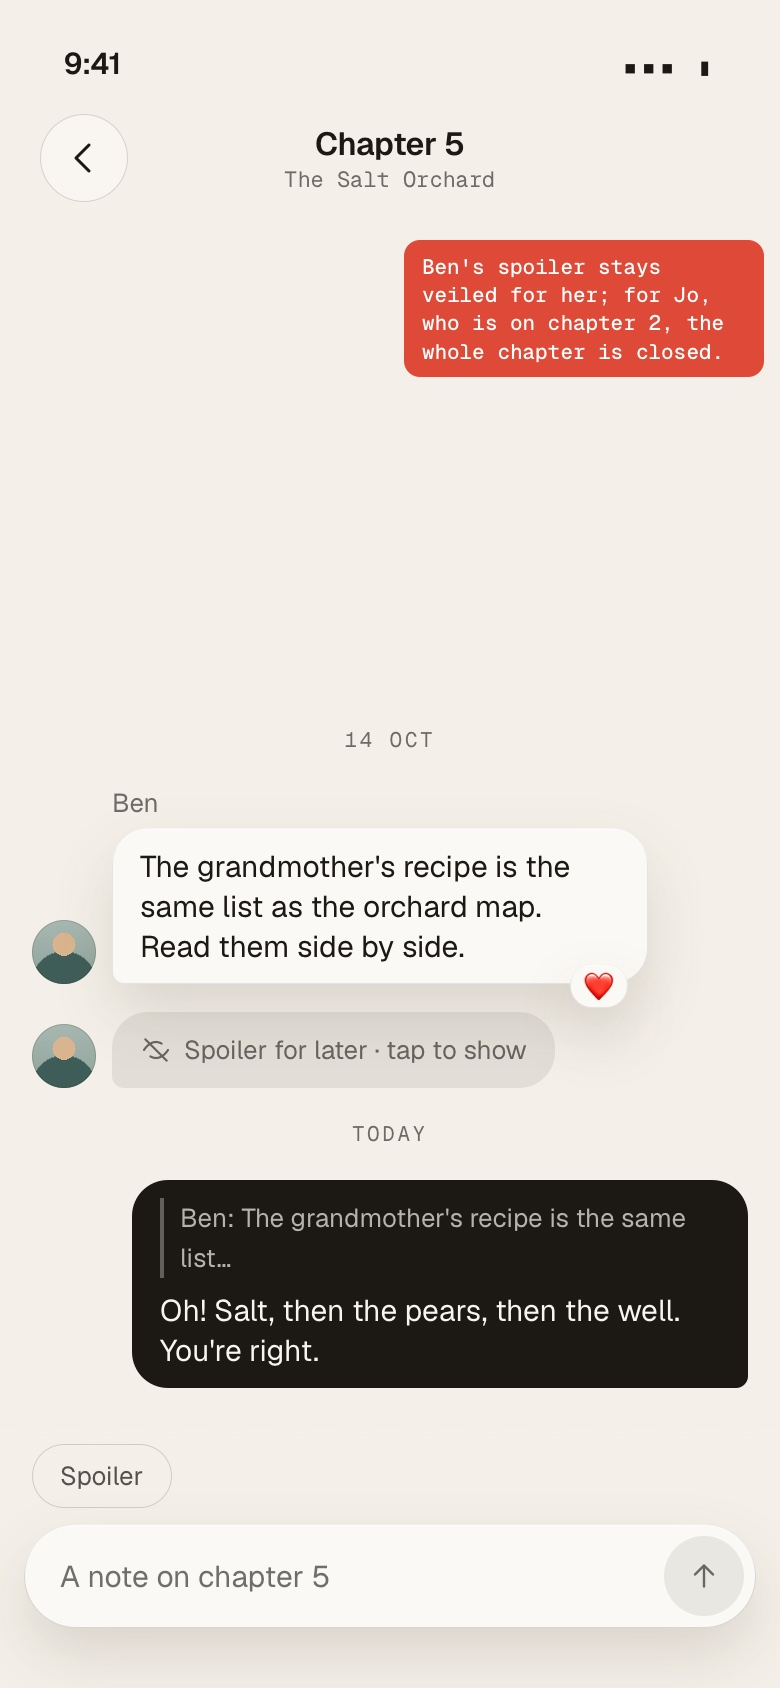
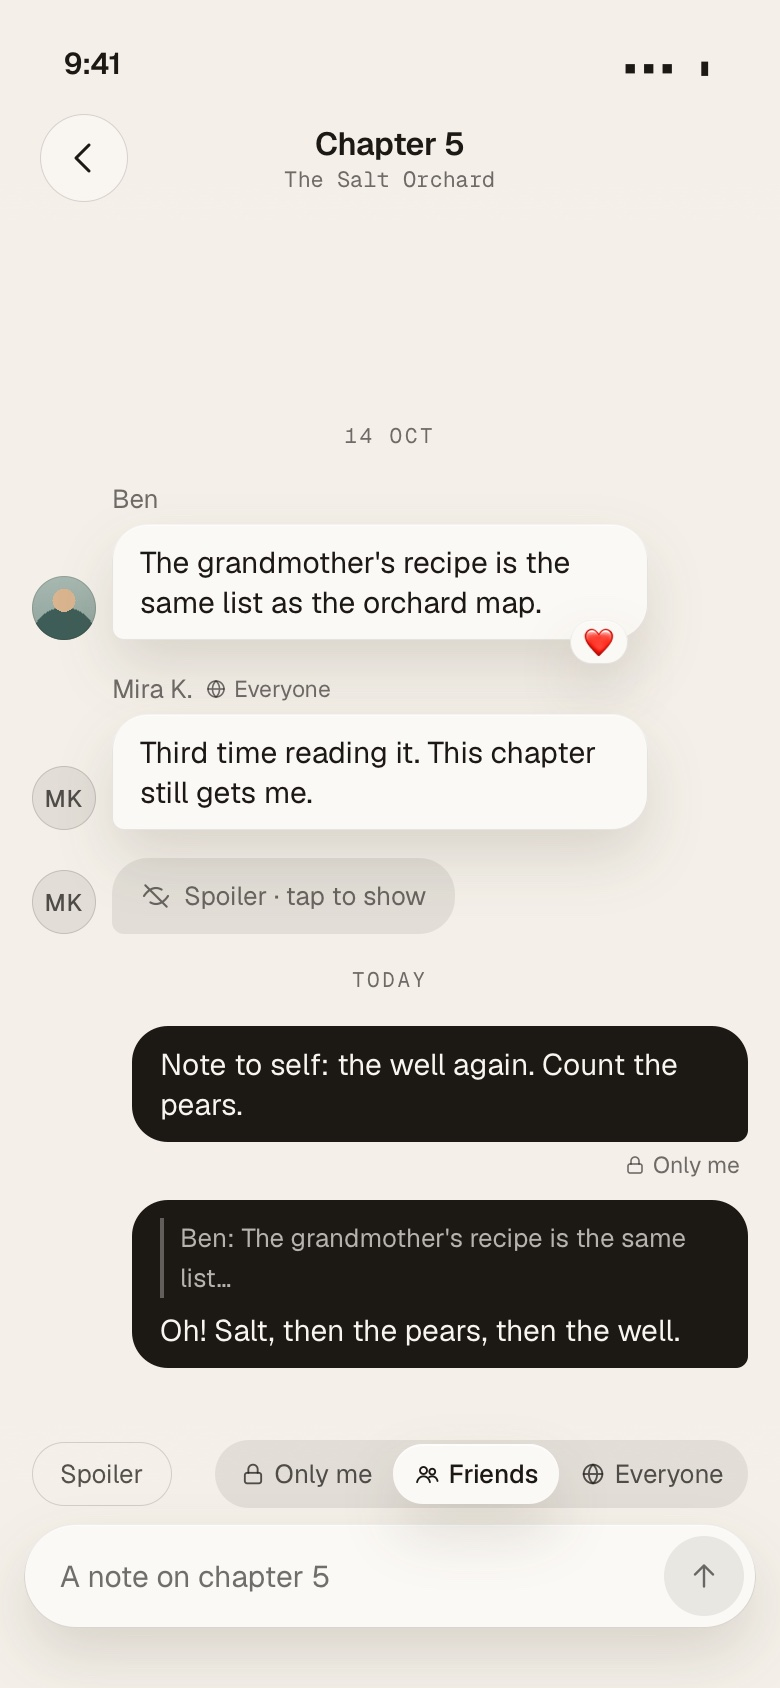
docs(plans): book-notes mock-ups for per-note visibility (only me, friends, everyone)

diff --git a/docs/prototypes/book-notes/chapter.html b/docs/prototypes/book-notes/chapter.html
@@ -2,7 +2,7 @@
 <html>
 <head>
 <meta charset="utf-8" />
-<title>Book notes 4: chapter 5's notes</title>
+<title>Book notes 4: chapter 5, notes at three visibilities</title>
 <link rel="stylesheet" href="base.css" />
 <link rel="stylesheet" href="room.css" />
 </head>
@@ -15,32 +15,41 @@
     <div></div>
   </div>
 
-  <div class="msgs">
+  <div class="msgs" style="bottom:160px">
     <p class="day">14 Oct</p>
     <div class="msg">
       <p class="who">Ben</p>
       <div class="line"><span class="av photo2">B</span>
-        <div class="bub"><span data-en="The grandmother's recipe is the same list as the orchard map. Read them side by side." data-de="Das Rezept der Großmutter ist dieselbe Liste wie die Karte des Obstgartens. Lies beides nebeneinander."></span><span class="react">❤</span></div>
+        <div class="bub"><span data-en="The grandmother's recipe is the same list as the orchard map." data-de="Das Rezept der Großmutter ist dieselbe Liste wie die Karte des Obstgartens."></span><span class="react">❤</span></div>
+      </div>
+    </div>
+    <div class="msg" style="margin-top:6px">
+      <p class="who">Mira K. <span class="mark"><svg class="ico" viewBox="0 0 24 24"><circle cx="12" cy="12" r="8"/><path d="M4 12h16M12 4c2.5 2.2 3.5 5 3.5 8s-1 5.8-3.5 8c-2.5-2.2-3.5-5-3.5-8s1-5.8 3.5-8z"/></svg><span data-en="Everyone" data-de="Alle"></span></span></p>
+      <div class="line"><span class="av">MK</span>
+        <div class="bub"><span data-en="Third time reading it. This chapter still gets me." data-de="Ich lese es zum dritten Mal. Dieses Kapitel trifft mich immer noch."></span></div>
       </div>
     </div>
     <div class="msg" style="margin-top:4px">
-      <div class="line"><span class="av photo2">B</span>
-        <div class="bub veil"><svg class="ico" viewBox="0 0 24 24" style="width:16px;height:16px"><path d="M3 12s3.5-6 9-6c1.6 0 3 .5 4.2 1.2M21 12s-3.5 6-9 6c-1.6 0-3-.5-4.2-1.2M4 4l16 16"/></svg><span data-en="Spoiler for later · tap to show" data-de="Spoiler für später · zum Anzeigen tippen"></span></div>
+      <div class="line"><span class="av">MK</span>
+        <div class="bub veil"><svg class="ico" viewBox="0 0 24 24" style="width:16px;height:16px"><path d="M3 12s3.5-6 9-6c1.6 0 3 .5 4.2 1.2M21 12s-3.5 6-9 6c-1.6 0-3-.5-4.2-1.2M4 4l16 16"/></svg><span data-en="Spoiler · tap to show" data-de="Spoiler · zum Anzeigen tippen"></span></div>
       </div>
     </div>
 
     <p class="day" data-en="Today" data-de="Heute"></p>
     <div class="msg mine">
-      <div class="line"><div class="bub"><div class="quote">Ben: <span data-en="The grandmother's recipe is the same list…" data-de="Das Rezept der Großmutter ist dieselbe Liste…"></span></div><span data-en="Oh! Salt, then the pears, then the well. You're right." data-de="Oh! Salz, dann die Birnen, dann der Brunnen. Du hast recht."></span></div></div>
+      <div class="line"><div class="bub"><span data-en="Note to self: the well again. Count the pears." data-de="Notiz an mich: wieder der Brunnen. Birnen zählen."></span></div></div>
+      <div class="meta-mine"><span class="mark"><svg class="ico" viewBox="0 0 24 24"><rect x="5" y="11" width="14" height="9" rx="2"/><path d="M8 11V8a4 4 0 0 1 8 0v3"/></svg><span data-en="Only me" data-de="Nur ich"></span></span></div>
+    </div>
+    <div class="msg mine">
+      <div class="line"><div class="bub"><div class="quote">Ben: <span data-en="The grandmother's recipe is the same list…" data-de="Das Rezept der Großmutter ist dieselbe Liste…"></span></div><span data-en="Oh! Salt, then the pears, then the well." data-de="Oh! Salz, dann die Birnen, dann der Brunnen."></span></div></div>
     </div>
   </div>
 
   <div class="composer">
-    <div class="chips"><span class="chip" data-en="Spoiler" data-de="Spoiler"></span></div>
+    <div class="chips"><span class="chip" data-en="Spoiler" data-de="Spoiler"></span><span class="vis" role="radiogroup"><span class="" role="radio"><svg class="ico" viewBox="0 0 24 24"><rect x="5" y="11" width="14" height="9" rx="2"/><path d="M8 11V8a4 4 0 0 1 8 0v3"/></svg><b style="font-weight:inherit" data-en="Only me" data-de="Nur ich"></b></span><span class="on" role="radio"><svg class="ico" viewBox="0 0 24 24"><circle cx="9" cy="9" r="3"/><circle cx="16.5" cy="10" r="2.5"/><path d="M3.5 19c.6-3 2.8-5 5.5-5s4.9 2 5.5 5M14 14.6c.8-.4 1.6-.6 2.5-.6 2.2 0 4 1.6 4.5 4"/></svg><b style="font-weight:inherit" data-en="Friends" data-de="Freunde"></b></span><span class="" role="radio"><svg class="ico" viewBox="0 0 24 24"><circle cx="12" cy="12" r="8"/><path d="M4 12h16M12 4c2.5 2.2 3.5 5 3.5 8s-1 5.8-3.5 8c-2.5-2.2-3.5-5-3.5-8s1-5.8 3.5-8z"/></svg><b style="font-weight:inherit" data-en="Everyone" data-de="Alle"></b></span></span></div>
     <div class="box"><span class="ph" data-en="A note on chapter 5" data-de="Eine Notiz zu Kapitel 5"></span>
       <span class="send"><svg class="ico" viewBox="0 0 24 24"><path d="M12 19V5M6 11l6-6 6 6"/></svg></span></div>
   </div>
-  <div class="note" style="bottom:auto;top:120px;right:8px;max-width:180px" data-en="Ben's spoiler stays veiled for her; for Jo, who is on chapter 2, the whole chapter is closed." data-de="Bens Spoiler bleibt für sie verdeckt; für Jo, bei Kapitel 2, ist das ganze Kapitel zu."></div>
 </div>
 <script src="mock.js"></script>
 </body>

diff --git a/docs/prototypes/book-notes/composer-public.html b/docs/prototypes/book-notes/composer-public.html
@@ -1,0 +1,37 @@
+<!doctype html>
+<html>
+<head>
+<meta charset="utf-8" />
+<title>Book notes 5: choosing Everyone, the inline hint</title>
+<link rel="stylesheet" href="base.css" />
+<link rel="stylesheet" href="room.css" />
+</head>
+<body>
+<div class="phone">
+  <div class="status-bar"><span>9:41</span><span class="mono" style="font-size:12px;letter-spacing:2px">▪▪▪ ▮</span></div>
+  <div class="topbar">
+    <div class="round"><svg viewBox="0 0 24 24"><path d="M14.5 5.5 8 12l6.5 6.5"/></svg></div>
+    <div class="mid"><h1 data-en="Chapter 5" data-de="Kapitel 5"></h1><p class="range">The Salt Orchard</p></div>
+    <div></div>
+  </div>
+
+  <div class="msgs" style="bottom:196px">
+    <p class="day">14 Oct</p>
+    <div class="msg">
+      <p class="who">Ben</p>
+      <div class="line"><span class="av photo2">B</span>
+        <div class="bub"><span data-en="The grandmother's recipe is the same list as the orchard map." data-de="Das Rezept der Großmutter ist dieselbe Liste wie die Karte des Obstgartens."></span><span class="react">❤</span></div>
+      </div>
+    </div>
+  </div>
+
+  <div class="composer">
+    <div class="chips"><span class="chip" data-en="Spoiler" data-de="Spoiler"></span><span class="vis" role="radiogroup"><span class="" role="radio"><svg class="ico" viewBox="0 0 24 24"><rect x="5" y="11" width="14" height="9" rx="2"/><path d="M8 11V8a4 4 0 0 1 8 0v3"/></svg><b style="font-weight:inherit" data-en="Only me" data-de="Nur ich"></b></span><span class="" role="radio"><svg class="ico" viewBox="0 0 24 24"><circle cx="9" cy="9" r="3"/><circle cx="16.5" cy="10" r="2.5"/><path d="M3.5 19c.6-3 2.8-5 5.5-5s4.9 2 5.5 5M14 14.6c.8-.4 1.6-.6 2.5-.6 2.2 0 4 1.6 4.5 4"/></svg><b style="font-weight:inherit" data-en="Friends" data-de="Freunde"></b></span><span class="on" role="radio"><svg class="ico" viewBox="0 0 24 24"><circle cx="12" cy="12" r="8"/><path d="M4 12h16M12 4c2.5 2.2 3.5 5 3.5 8s-1 5.8-3.5 8c-2.5-2.2-3.5-5-3.5-8s1-5.8 3.5-8z"/></svg><b style="font-weight:inherit" data-en="Everyone" data-de="Alle"></b></span></span></div>
+    <p class="vhint"><svg class="ico" viewBox="0 0 24 24"><circle cx="12" cy="12" r="8"/><path d="M4 12h16M12 4c2.5 2.2 3.5 5 3.5 8s-1 5.8-3.5 8c-2.5-2.2-3.5-5-3.5-8s1-5.8 3.5-8z"/></svg><span data-en="Visible to all members of BetterReads, with your name and photo. Just this note." data-de="Für alle Mitglieder von BetterReads sichtbar, mit deinem Namen und Foto. Nur diese Notiz."></span></p>
+    <div class="box"><span class="ph" style="color:var(--color-ink)" data-en="Anyone else think the map is the real narrator?" data-de="Denkt noch jemand, dass die Karte die eigentliche Erzählerin ist?"></span>
+      <span class="send" style="background:var(--color-ink);color:var(--color-on-ink)"><svg class="ico" viewBox="0 0 24 24"><path d="M12 19V5M6 11l6-6 6 6"/></svg></span></div>
+  </div>
+</div>
+<script src="mock.js"></script>
+</body>
+</html>

diff --git a/docs/prototypes/book-notes/book.html b/docs/prototypes/book-notes/book.html
@@ -43,11 +43,16 @@
   </div>
 
   <div class="sec">
-    <h2 class="eyebrow" style="margin-bottom:8px" data-en="Notes from friends" data-de="Notizen von Freunden"></h2>
+    <h2 class="eyebrow" style="margin-bottom:8px" data-en="Notes" data-de="Notizen"></h2>
     <div class="rowgroup">
       <div class="frow">
         <span class="faces"><span class="av photo2">B</span><span class="av">J</span></span>
-        <span class="t"><b data-en="Ben and Jo" data-de="Ben und Jo"></b><span data-en="14 notes · chapters 1–9" data-de="14 Notizen · Kapitel 1–9"></span></span>
+        <span class="t"><b data-en="From friends" data-de="Von Freunden"></b><span data-en="Ben and Jo · 14 notes · chapters 1–9" data-de="Ben und Jo · 14 Notizen · Kapitel 1–9"></span></span>
+        <span class="chev">›</span>
+      </div>
+      <div class="frow" style="border-top:0.5px solid var(--color-hairline)">
+        <span class="faces" style="width:52px;justify-content:center;color:var(--color-ink-faint)"><svg class="ico" style="width:20px;height:20px" viewBox="0 0 24 24"><circle cx="12" cy="12" r="8"/><path d="M4 12h16M12 4c2.5 2.2 3.5 5 3.5 8s-1 5.8-3.5 8c-2.5-2.2-3.5-5-3.5-8s1-5.8 3.5-8z"/></svg></span>
+        <span class="t"><b data-en="Public" data-de="Öffentlich"></b><span data-en="6 notes from 3 members" data-de="6 Notizen von 3 Mitgliedern"></span></span>
         <span class="chev">›</span>
       </div>
     </div>

diff --git a/docs/prototypes/book-notes/room.css b/docs/prototypes/book-notes/room.css
@@ -98,3 +98,16 @@
 
 .cover.md { width: 72px; border-radius: 3px; padding: 7px; }
 .cover.md .t { font-size: 10px; } .cover.md .a { font-size: 4.5px; }
+
+/* Notes visibility (book-notes v3): the three-way control in the composer, the marks in the thread */
+.vis { display: inline-flex; margin-left: auto; padding: 2px; border-radius: 999px; background: var(--color-fill-strong); }
+.vis span { position: relative; display: inline-flex; align-items: center; gap: 4px; height: 30px; padding: 0 10px; border-radius: 999px; font-size: 13px; color: var(--color-ink-muted); white-space: nowrap; }
+.vis span::after { content: ''; position: absolute; inset: 50% 0 auto; height: 44px; transform: translateY(-50%); }
+.vis span.on { background: var(--color-surface-raised); color: var(--color-ink); box-shadow: var(--shadow-raised); font-weight: 500; }
+.vis .ico { width: 14px; height: 14px; }
+.composer .chips { display: flex; align-items: center; }
+.vhint { display: flex; gap: 6px; align-items: flex-start; margin: 0 6px 8px; font-size: 12.5px; line-height: 16px; color: var(--color-ink-muted); }
+.vhint .ico { width: 14px; height: 14px; margin-top: 1px; color: var(--color-ink-faint); }
+.mark { display: inline-flex; align-items: center; gap: 3px; font-size: 11.5px; color: var(--color-ink-faint); }
+.mark .ico { width: 12px; height: 12px; }
+.msg.mine .meta-mine { display: flex; justify-content: flex-end; gap: 6px; padding: 4px 4px 0; }

diff --git a/docs/prototypes/book-notes/notes.html b/docs/prototypes/book-notes/notes.html
@@ -29,7 +29,7 @@
       <p class="eyebrow" data-en="Notes" data-de="Notizen"></p>
       <h1 class="serif" style="margin-top:6px">The Salt Orchard</h1>
       <p class="caption muted" style="margin-top:2px">Ilse Varga</p>
-      <p class="caption faint" style="margin-top:6px" data-en="Yours and your friends' · 43 chapters" data-de="Deine und die deiner Freunde · 43 Kapitel"></p>
+      <p class="caption faint" style="margin-top:6px" data-en="Yours, your friends' and public · 43 chapters" data-de="Deine, von Freunden und öffentliche · 43 Kapitel"></p>
     </div>
   </div>
 
